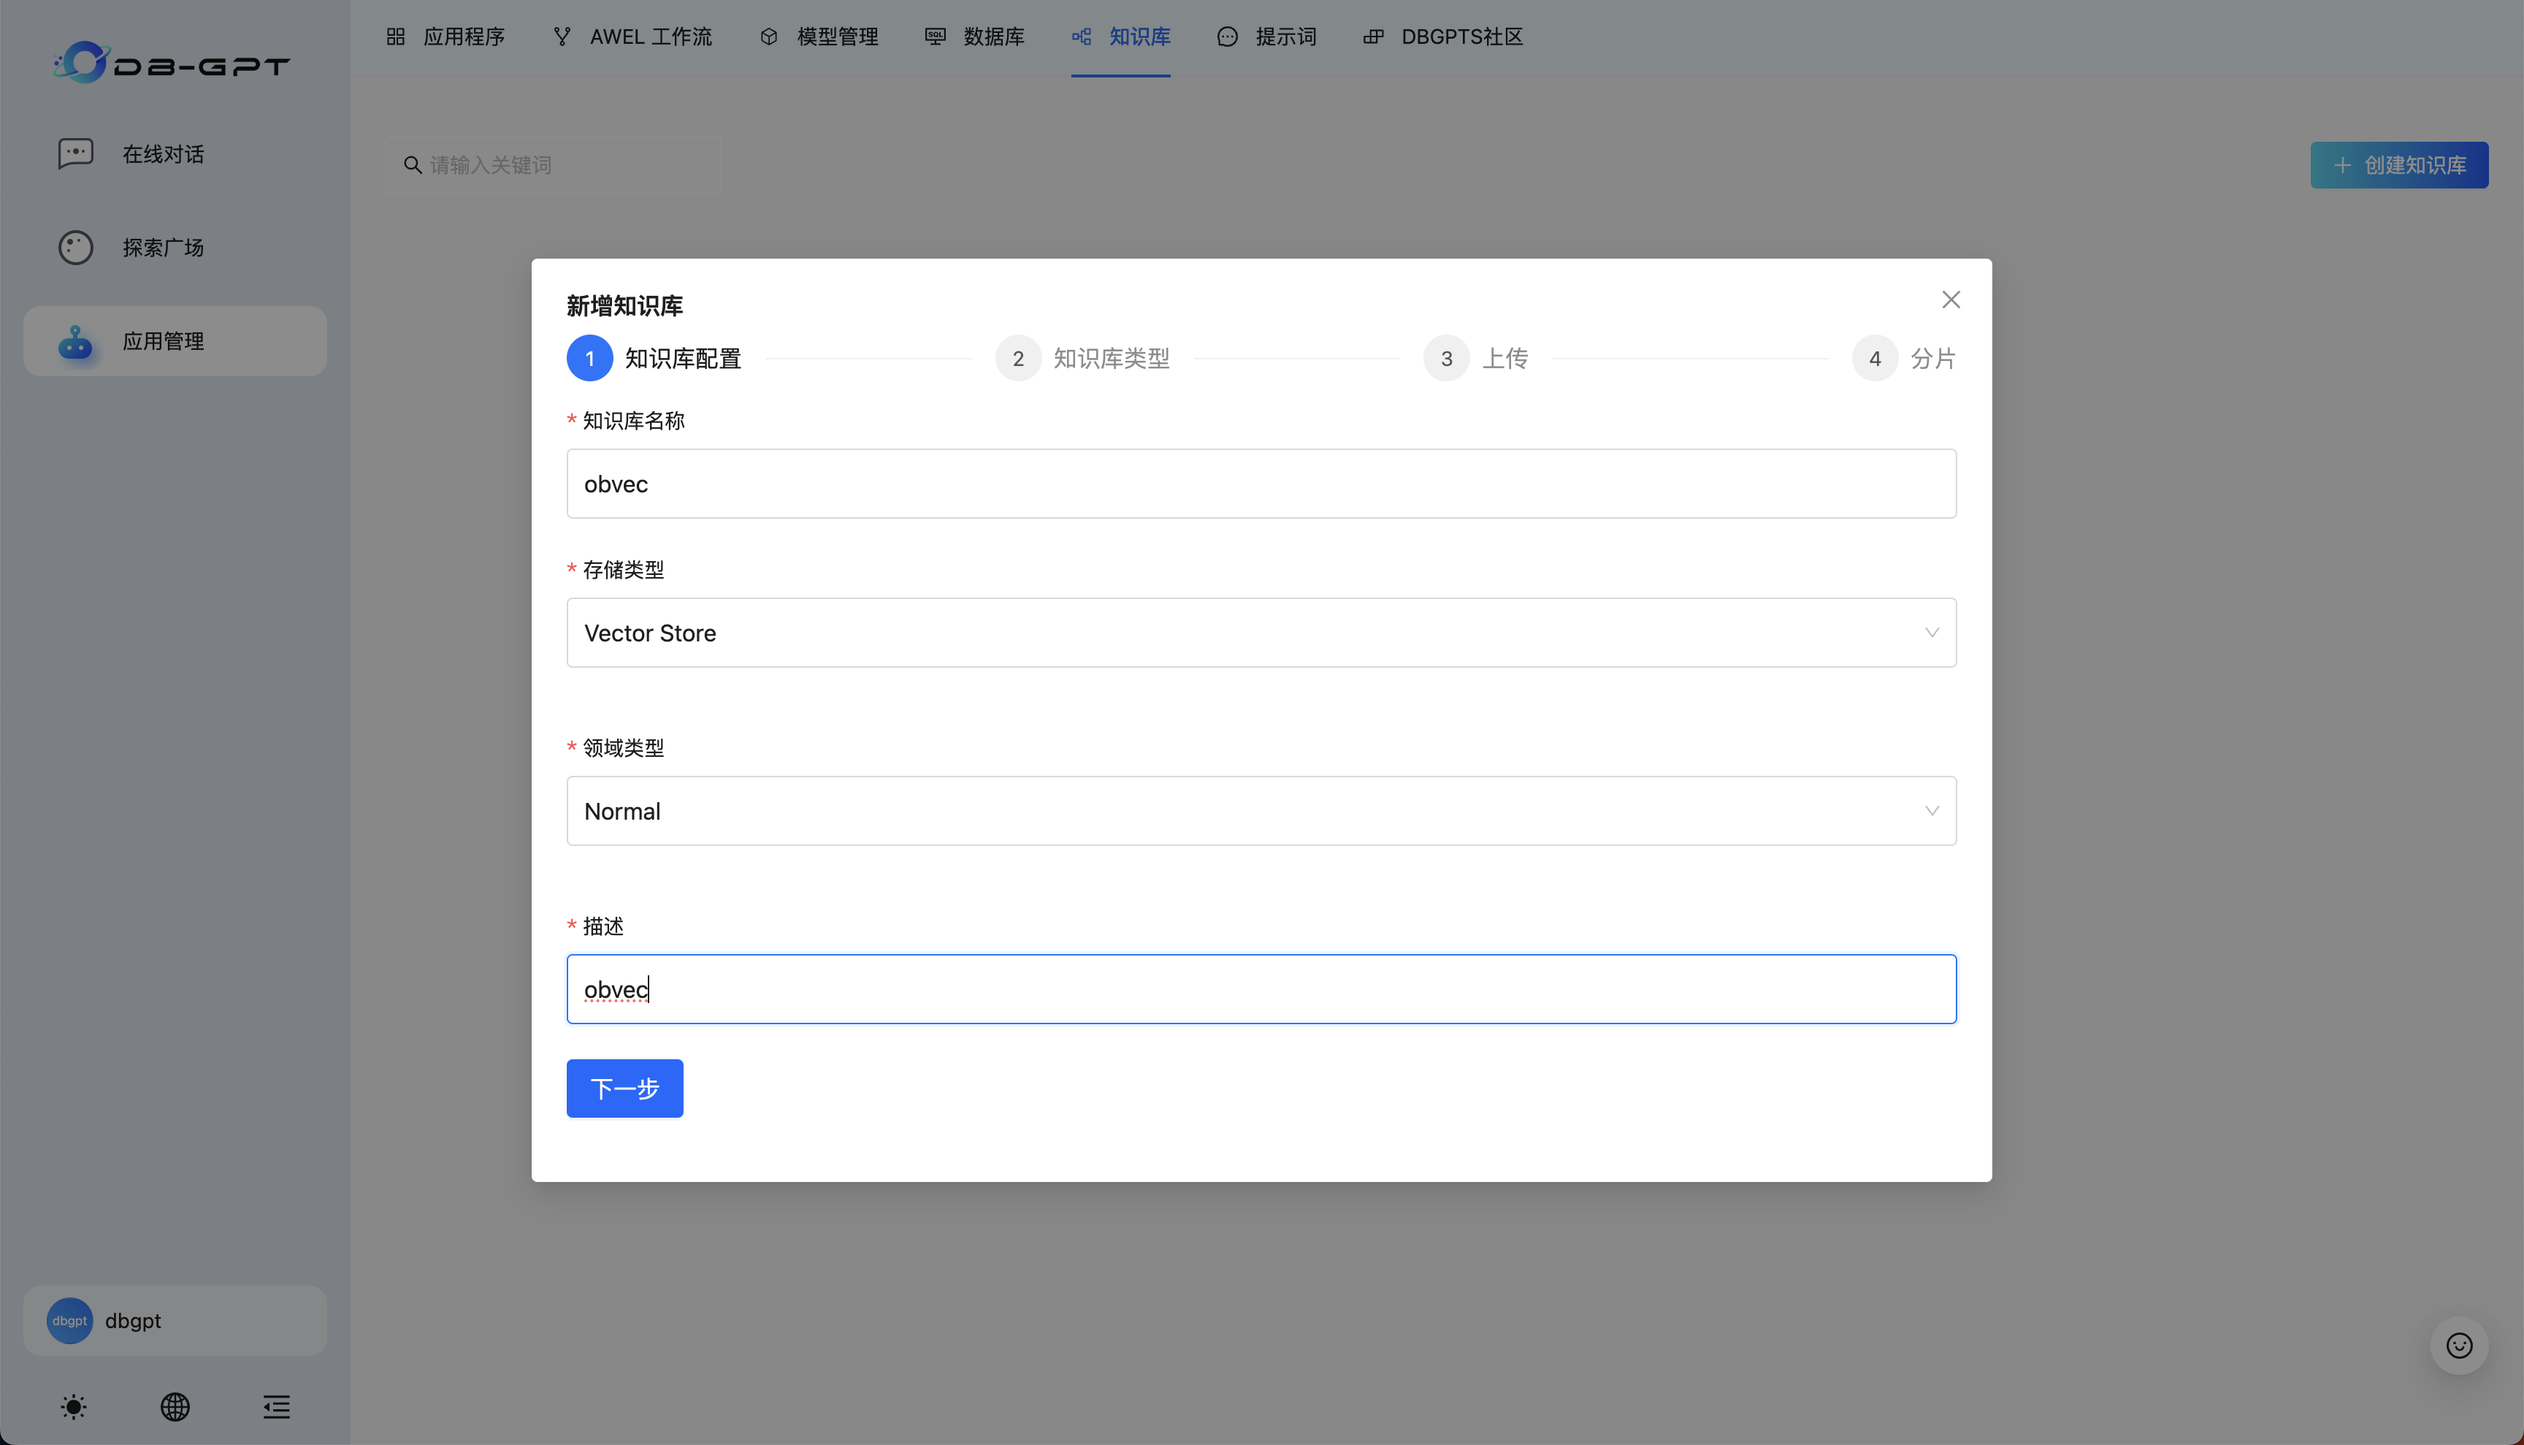
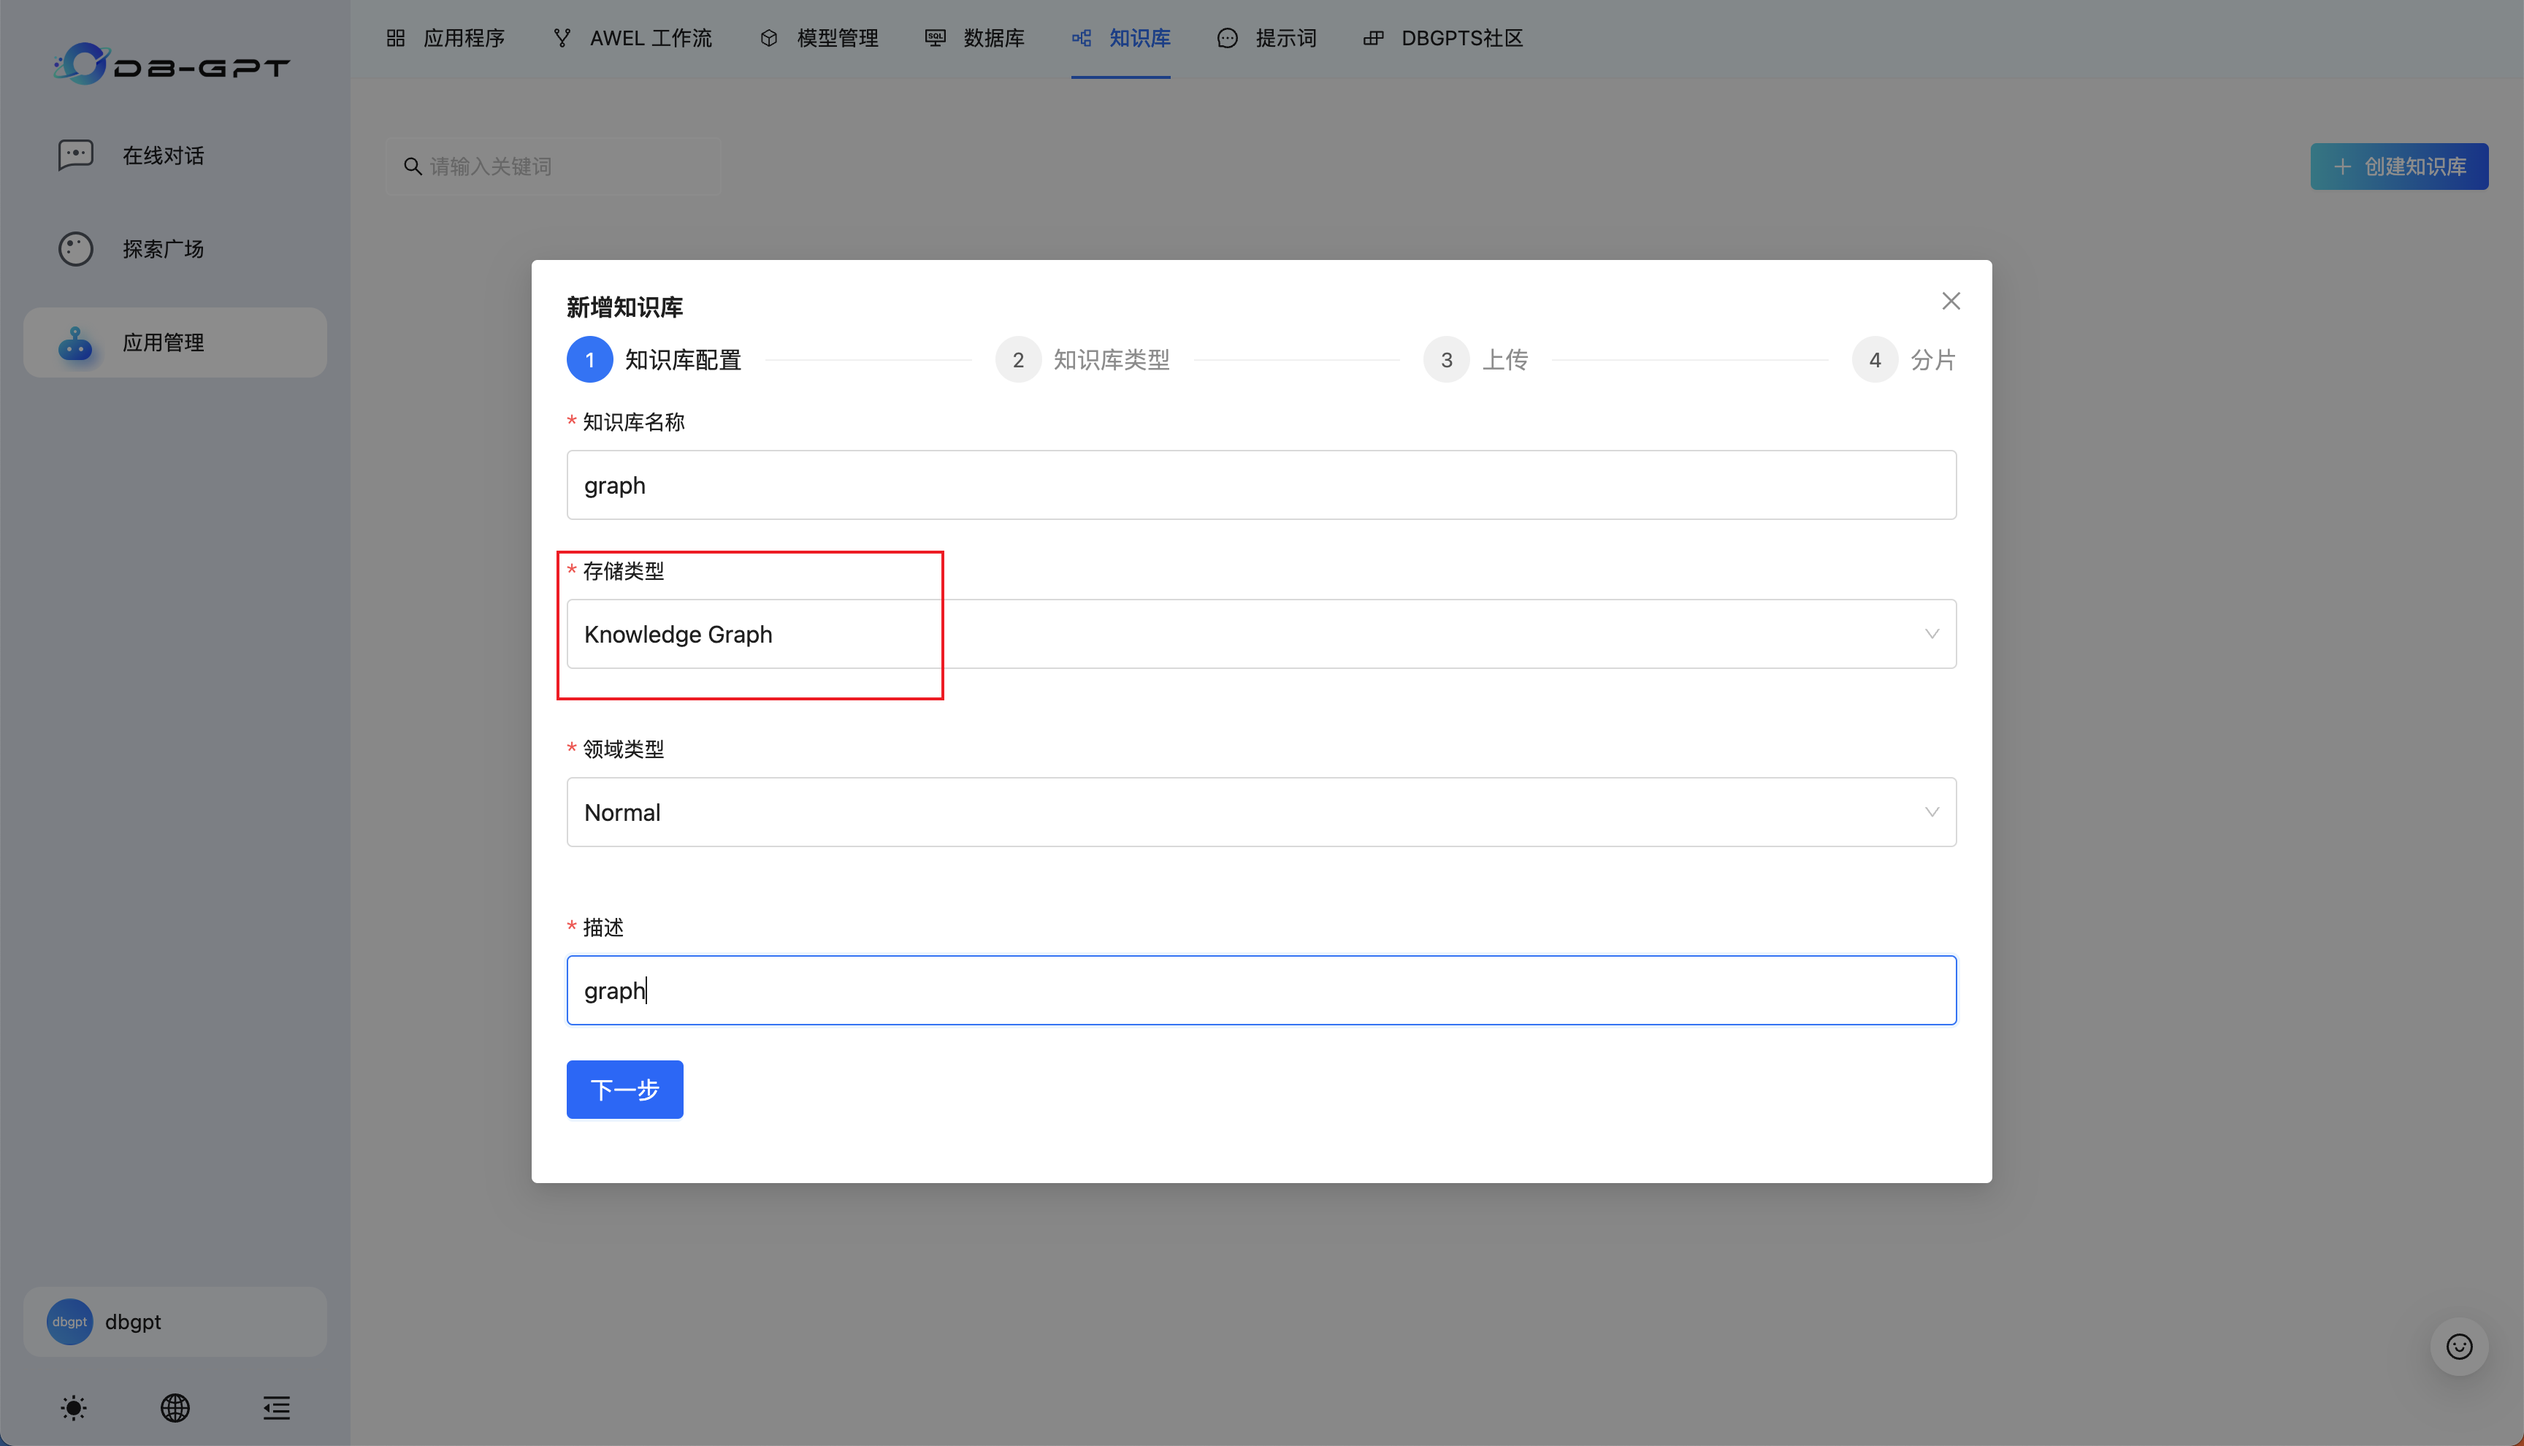
update tutorial

diff --git a/docker/compose_examples/ob_dbgpt_tutorial.md b/docker/compose_examples/ob_dbgpt_tutorial.md
@@ -6,6 +6,49 @@
 
 OceanBase 从 4.3.3 版本开始支持了向量数据类型的存储和检索，并且经过适配可以作为 DB-GPT 的可选向量数据库，支持 DB-GPT 对结构化数据和向量数据的存取需求，有力地支撑其上 LLM 应用的开发和落地，同时 DB-GPT 也通过 `chat data`、`chat db` 等应用为 OceanBase 提升易用性。
 
+鉴于传统 RAG 在概括性问题上存在的问题，DB-GPT 实现了一种基于知识图谱进行相关文档召回的 RAG 技术 —— GraphRAG。实现依赖图数据库和向量数据库作为文档数据存储和检索的基础组件。TuGraph是作为一个高效的图形数据库，支持高数据量、低延迟查找和快速图形分析的图数据库，可以与 OceanBase 的向量存储功能相结合，共同支持 DB-GPT GraphRAG 功能。
+
+## 技术简介
+
+### Chat Data / NL2SQL / Text2SQL
+
+DB-GPT 的 `chat data` 功能本质是自然语言转SQL技术（或称为`NL2SQL`/`Text2SQL`），原理如下图所示：
+
+**数据导入阶段**
+
+1. 获取数据库内用户表schema
+2. 将表名、列名、约束等嵌入为向量
+3. 存储到OceanBase向量数据库
+
+![chat data数据预处理](images/chat_data_pre.png)
+
+**自然语言查询阶段**
+
+1. 提问嵌入+向量搜索
+2. 获取相关表schema后生成SQL以及可视化方案
+3. 使用获取的数据最终输出
+
+![chat data查询阶段](images/chat_data_search.png)
+
+### GraphRAG
+
+**数据导入阶段**
+
+1. 文档分块；
+2. 依据文档层级结构，为分块建立父子关系；
+3. 使用 LLM 抽取文档块中的实体以及关系三元组：在此过程中使用向量数据库搜索出与当前处理文档块语义接近的块，增强抽取时大模型对上下文的语义理解；
+4. 使用社区算法获取出实体关系图中的子图划分，利用大模型为每个子图生成一段总结，向量化后存入数据库；
+
+![graphrag数据预处理](images/graph_rag_pre.png)
+
+**查询阶段**
+
+1. 通过社区总结的向量数据库获取出与查询问题相关的topK个社区；
+2. 将这些查询结果拼接为一个总的summary，让 LLM 抽取查询所需要的关键词；
+3. 获取包含关键词的实体、以及其一跳的邻居实体；
+4. 获取文档块，并在 LLM 的提示词中添加实体、关系的描述；
+
+![graphrag查询阶段](images/graph_rag_search.png)
 
 ## 实验环境
 
@@ -17,7 +60,7 @@ OceanBase 从 4.3.3 版本开始支持了向量数据类型的存储和检索，
 
 ## 平台搭建步骤
 
-### 1. 获取 OceanBase 数据库
+### 1. 获取 OceanBase / TuGraph 数据库
 
 进行实验之前，我们需要先获取 OceanBase 数据库，目前可行的方式有两种：使用 OBCloud 实例或者[使用 Docker 本地部署单机版 OceanBase 数据库](#使用-docker-部署单机版-oceanbase-数据库)。我们在此推荐 OBCloud 实例，因为它部署和管理都更加简单，且不需要本地环境支持。
 
@@ -34,6 +77,16 @@ OceanBase 从 4.3.3 版本开始支持了向量数据类型的存储和检索，
 #### 1.3 创建数据库
 
 创建数据库以存放示例数据以及向量数据。需要注意的是，在设置数据库名称的时候，为了便于用户在 DB-GPT 前端界面进行后续的操作，**强烈不建议用户使用以下四种名称**：（因为以下四种数据库名被 DB-GPT 保留，用户虽然能成功在 DB-GPT 侧建立连接，但是无法在 Web UI 中进行后续的应用管理操作）
+
+#### 1.4 拉取 TuGraph 镜像
+
+> 现场体验的用户，无需拉取，请跳过本步骤
+
+使用以下命令获取：
+
+```bash
+docker pull quay.io/oceanbase-devhub/tugraph-runtime-centos7:4.5.0
+```
 
 - auth
 - dbgpt
@@ -109,6 +162,7 @@ cd ./DB-GPT/docker/compose_examples
     3. orders：记录了用户购买产品的订单信息；
     4. plant_and_animal_table：记录了一些动植物名称以及这些名称的向量表示；
 
+* 启动 TuGraph 并等待启动完毕；
 * 启动 DB-GPT 服务并等待启动完毕；
 * 尝试向 DB-GPT 预先注册好 `chat data` 应用需要的数据库连接，脚本中直接使用 OceanBase 作为目标数据库；
 
@@ -135,7 +189,7 @@ cd ./DB-GPT/docker/compose_examples
 
 然后按照配置引导进行设置：
 
-知识库名称、描述等可自定义。
+知识库名称、描述可自定义。**本教程默认演示 GraphRAG 功能，所以存储类型选择为`Knowldege Graph`，如需使用完全基于向量搜索的传统 RAG 请选择存储类型为`Vector Store`。**
 ![DB-GPT 知识库2](images/knowledge_create_2.png)
 
 这里我选择普通文档作为示例，用户可自行尝试其他类型。
@@ -144,9 +198,13 @@ cd ./DB-GPT/docker/compose_examples
 点击`选择或拖拽文件`区域，选择符合格式要求的文件
 ![DB-GPT 知识库4](images/knowledge_create_4.png)
 
-默认选择`自动切片`，点击`切片处理`即可。耐心等待处理完成，处理会自动退出配置界面，并弹出成功消息
+默认选择`自动切片`，点击`切片处理`即可。耐心等待处理完成，处理会自动退出配置界面，并弹出成功消息。**需要注意的是 GraphRAG 相对于传统的 RAG 来说在导入文档、构建索引部分相对耗时，请耐心等待，感兴趣的用户可以在服务部署机器上使用`docker logs -f dbgpt`命令查看处理过程的日志**
 ![DB-GPT 知识库5](images/knowledge_create_5.png)
-![DB-GPT 知识库6](images/knowledge_create_6.png)
+
+然后点击创建好的知识库，点击`查看图谱`，可以看到文档经过处理后的实体-关系图：
+![DB-GPT 知识库6](images/view_graph_1.png)
+![DB-GPT 知识库7](images/view_graph_2.png)
+![DB-GPT 知识库8](images/view_graph_3.png)
 
 ### 创建数据库连接
 
